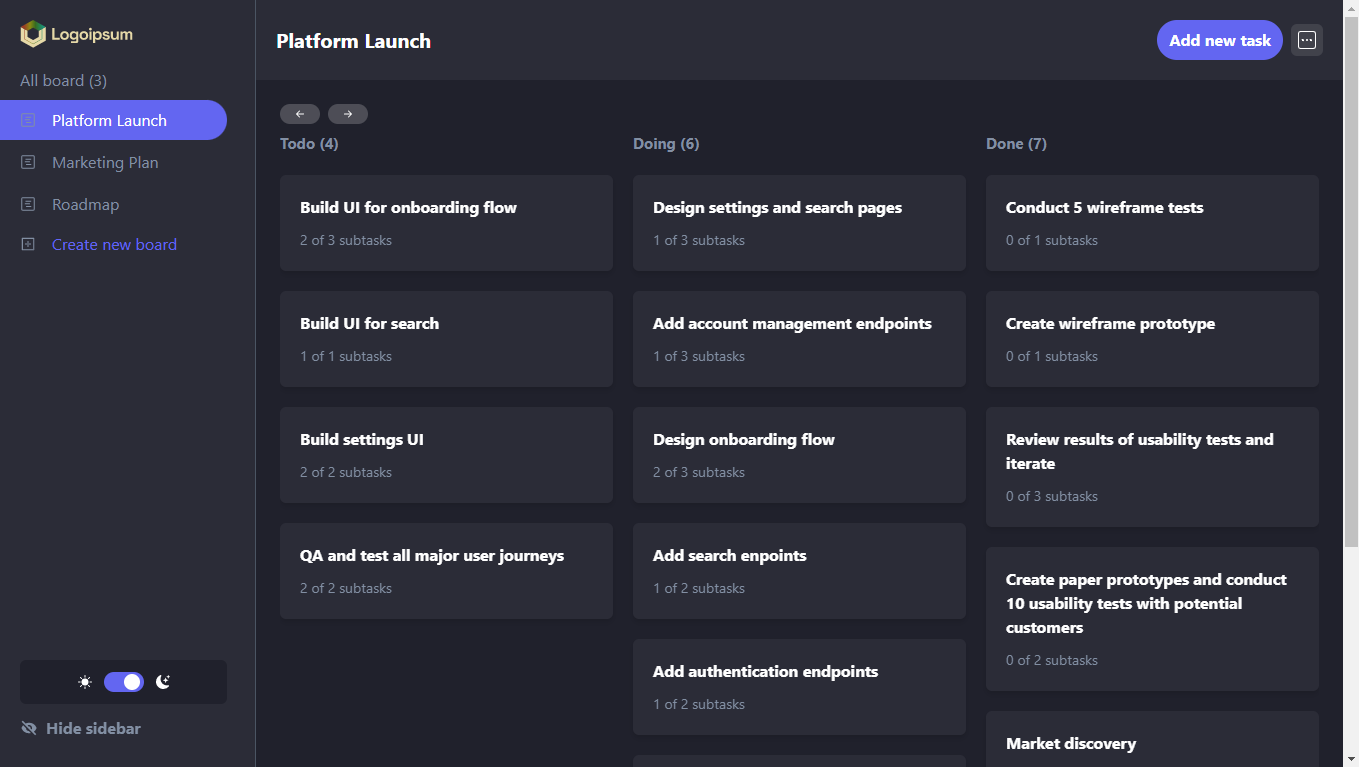
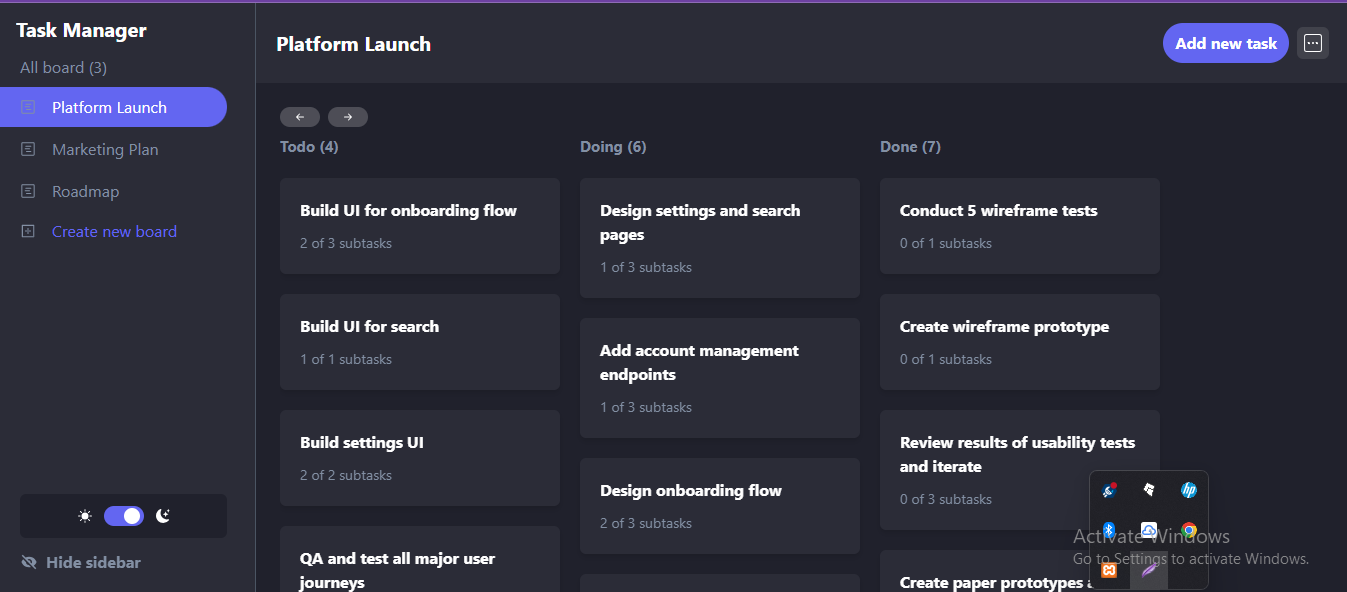
Refactor app title and URLs for task management web app

diff --git a/src/common/components/layout/ui/sidebar/index.tsx b/src/common/components/layout/ui/sidebar/index.tsx
@@ -27,7 +27,8 @@ export function Sidebar({ expanded, isDesktop }: IProps) {
       <SideBarWrapper>
         <Wrapper $expanded={bool2string(expanded)}>
           <div>
-            <Logo />
+            {/* <Logo /> */}
+            <div className="text-white text-xl font-bold my-3 ml-4">Task Manager</div>
             <TableList />
           </div>
           <div className="mb-16 pr-2">

diff --git a/src/pages/_document.tsx b/src/pages/_document.tsx
@@ -4,7 +4,7 @@ export default function Document() {
   return (
     <Html lang="en">
       <Head>
-        <title>Kanban task management web app</title>
+        <title>Task management web app</title>
       </Head>
       <body>
         <Main />

diff --git a/README.md b/README.md
@@ -1,4 +1,4 @@
-# Kanban task management web app
+# Task management web app
 
 Streamline your tasks with our task manager. Stay organized, prioritize
 your to-do list, and track progress all in one place. Boost productivity
@@ -52,8 +52,8 @@ Bonus:
 
 ### Links
 
-- Live Site URL: [link]([https://kanban-task-management-app.netlify.app/](https://nextjs-task-management-app.vercel.app/))
-- Design URL: [link](https://www.frontendmentor.io/challenges/kanban-task-management-web-app-wgQLt-HlbB)
+- Live Site URL: [link]([https://task-manager-plan.vercel.app/](https://task-manager-plan.vercel.app/))
+- Design URL: [link](https://www.frontendmentor.io/challenges/)
 
 ### Used technologies
 
